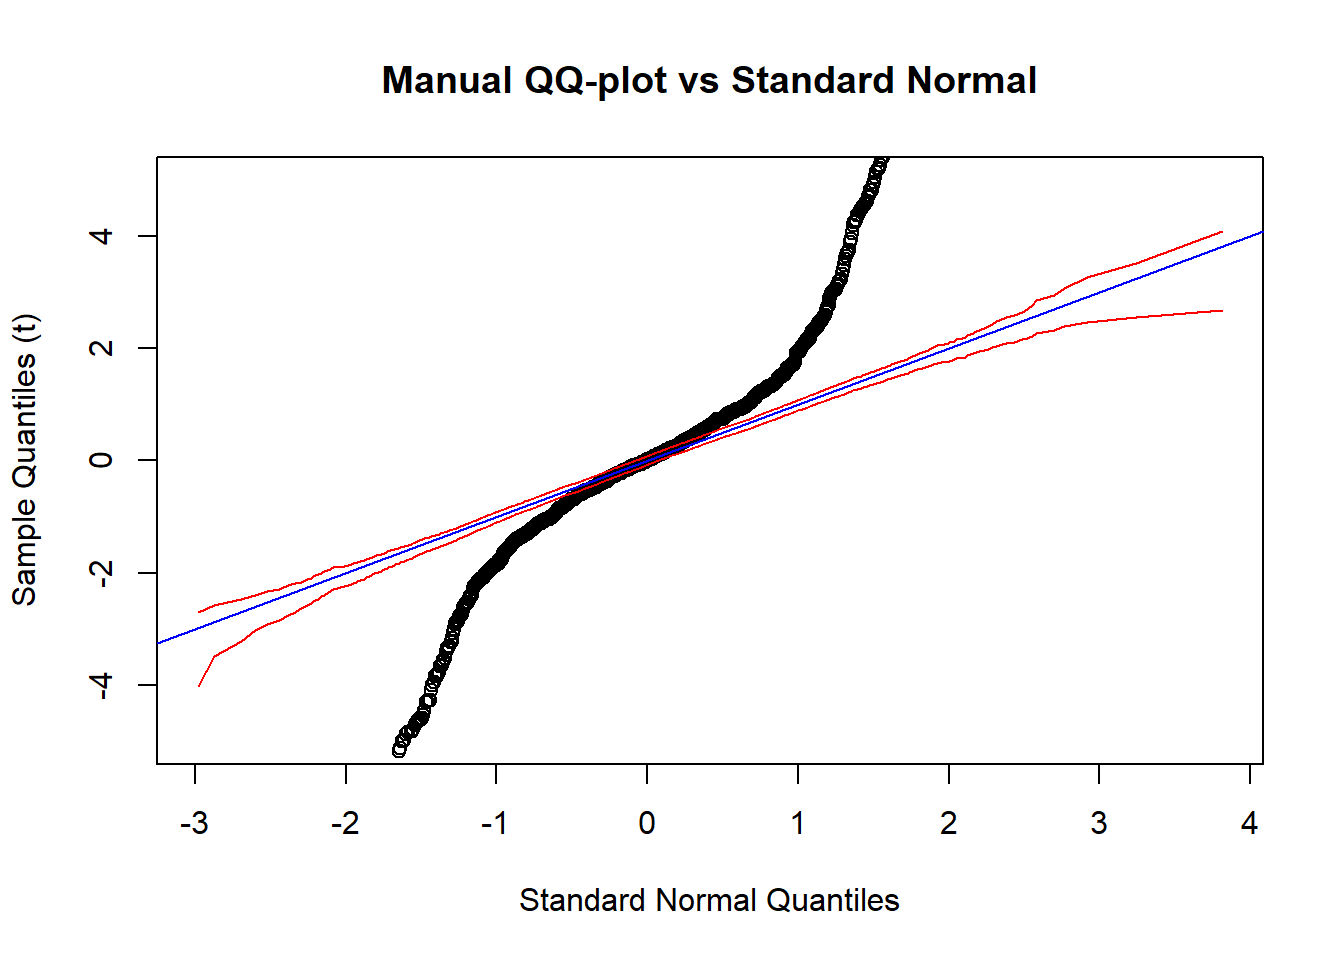
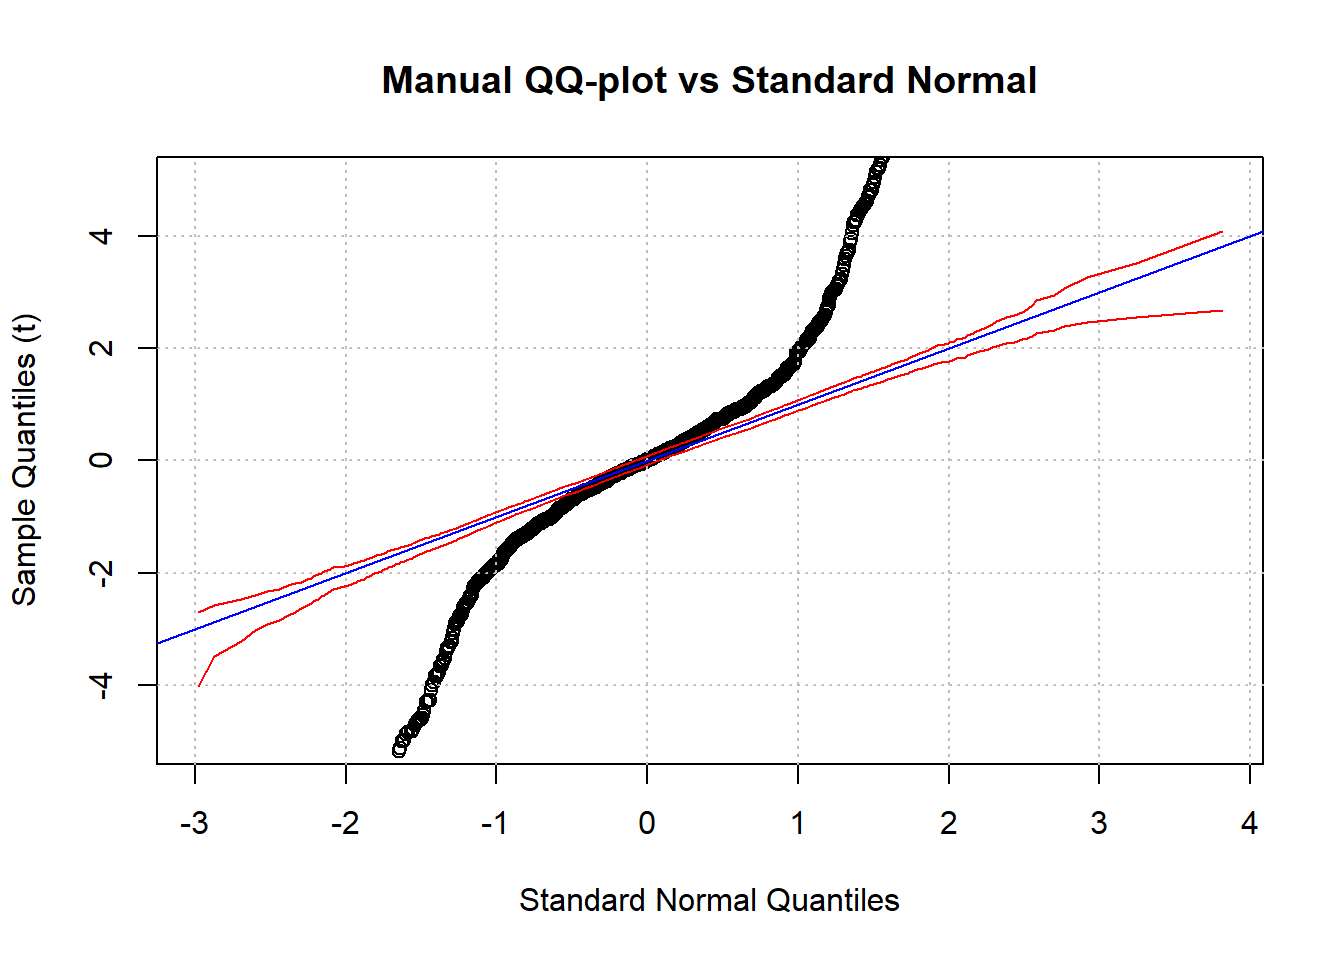
Adjustments to Day3 Prac Q5
Added correct verification plot and ammended plot appearence

diff --git a/_book/day_3_questions.html b/_book/day_3_questions.html
@@ -296,11 +296,12 @@ pre > code.sourceCode > span > a:first-child::before { text-decoration: underlin
 <span id="cb3-54"><a href="#cb3-54" aria-hidden="true" tabindex="-1"></a>     <span class="at">main =</span> <span class="st">"Manual QQ-plot vs Standard Normal"</span>,</span>
 <span id="cb3-55"><a href="#cb3-55" aria-hidden="true" tabindex="-1"></a>     <span class="at">type =</span> <span class="st">"p"</span>,</span>
 <span id="cb3-56"><a href="#cb3-56" aria-hidden="true" tabindex="-1"></a>     <span class="at">col =</span> <span class="st">"black"</span>,</span>
-<span id="cb3-57"><a href="#cb3-57" aria-hidden="true" tabindex="-1"></a>     <span class="at">ylim =</span> <span class="fu">c</span>(<span class="sc">-</span><span class="dv">5</span>,<span class="dv">5</span>)                              <span class="co"># adjusting y axis limits to match presentation of qqPlot</span></span>
-<span id="cb3-58"><a href="#cb3-58" aria-hidden="true" tabindex="-1"></a>)</span>
-<span id="cb3-59"><a href="#cb3-59" aria-hidden="true" tabindex="-1"></a><span class="fu">lines</span>(expected_q, lower, <span class="at">col =</span> <span class="st">"red"</span>, <span class="at">lty =</span> <span class="dv">1</span>)   <span class="co"># lower bound (2.5th quantile)</span></span>
-<span id="cb3-60"><a href="#cb3-60" aria-hidden="true" tabindex="-1"></a><span class="fu">lines</span>(expected_q, upper, <span class="at">col =</span> <span class="st">"red"</span>, <span class="at">lty =</span> <span class="dv">1</span>)   <span class="co"># upper bound (97.5th quantile)</span></span>
-<span id="cb3-61"><a href="#cb3-61" aria-hidden="true" tabindex="-1"></a><span class="fu">abline</span>(<span class="dv">0</span>, <span class="dv">1</span>, <span class="at">col =</span> <span class="st">"blue"</span>, <span class="at">lwd =</span> <span class="dv">1</span>)  <span class="co"># 45 degr</span></span></code><button title="Copy to Clipboard" class="code-copy-button"><i class="bi"></i></button></pre></div>
+<span id="cb3-57"><a href="#cb3-57" aria-hidden="true" tabindex="-1"></a>     <span class="at">ylim =</span> <span class="fu">c</span>(<span class="sc">-</span><span class="dv">5</span>,<span class="dv">5</span>)             <span class="co"># adjusting y axis limits to match presentation of qqPlot</span></span>
+<span id="cb3-58"><a href="#cb3-58" aria-hidden="true" tabindex="-1"></a>     )</span>
+<span id="cb3-59"><a href="#cb3-59" aria-hidden="true" tabindex="-1"></a><span class="fu">grid</span>(<span class="at">col =</span> <span class="st">"grey"</span>)</span>
+<span id="cb3-60"><a href="#cb3-60" aria-hidden="true" tabindex="-1"></a><span class="fu">lines</span>(expected_q, lower, <span class="at">col =</span> <span class="st">"red"</span>, <span class="at">lty =</span> <span class="dv">1</span>)   <span class="co"># lower bound (2.5th quantile)</span></span>
+<span id="cb3-61"><a href="#cb3-61" aria-hidden="true" tabindex="-1"></a><span class="fu">lines</span>(expected_q, upper, <span class="at">col =</span> <span class="st">"red"</span>, <span class="at">lty =</span> <span class="dv">1</span>)   <span class="co"># upper bound (97.5th quantile)</span></span>
+<span id="cb3-62"><a href="#cb3-62" aria-hidden="true" tabindex="-1"></a><span class="fu">abline</span>(<span class="dv">0</span>, <span class="dv">1</span>, <span class="at">col =</span> <span class="st">"blue"</span>, <span class="at">lwd =</span> <span class="dv">1</span>)  <span class="co"># 45 degree line</span></span></code><button title="Copy to Clipboard" class="code-copy-button"><i class="bi"></i></button></pre></div>
 <div class="cell-output-display">
 <div>
 <figure class="figure">
@@ -309,7 +310,13 @@ pre > code.sourceCode > span > a:first-child::before { text-decoration: underlin
 </div>
 </div>
 <div class="sourceCode cell-code" id="cb4"><pre class="sourceCode r code-with-copy"><code class="sourceCode r"><span id="cb4-1"><a href="#cb4-1" aria-hidden="true" tabindex="-1"></a><span class="co"># QQ-plot against standard normal for verification</span></span>
-<span id="cb4-2"><a href="#cb4-2" aria-hidden="true" tabindex="-1"></a><span class="fu">qqPlot</span>(t_sorted, <span class="at">envelope =</span> <span class="fl">0.95</span>, <span class="at">ylim =</span> <span class="fu">c</span>(<span class="sc">-</span><span class="dv">5</span>, <span class="dv">5</span>))</span></code><button title="Copy to Clipboard" class="code-copy-button"><i class="bi"></i></button></pre></div>
+<span id="cb4-2"><a href="#cb4-2" aria-hidden="true" tabindex="-1"></a><span class="fu">qqPlot</span>(t_sorted,</span>
+<span id="cb4-3"><a href="#cb4-3" aria-hidden="true" tabindex="-1"></a>       <span class="at">envelope =</span> <span class="fl">0.95</span>,</span>
+<span id="cb4-4"><a href="#cb4-4" aria-hidden="true" tabindex="-1"></a>       <span class="at">ylim =</span> <span class="fu">c</span>(<span class="sc">-</span><span class="dv">5</span>, <span class="dv">5</span>),</span>
+<span id="cb4-5"><a href="#cb4-5" aria-hidden="true" tabindex="-1"></a>       <span class="at">main =</span> <span class="st">"QQ-plot using R function"</span>,</span>
+<span id="cb4-6"><a href="#cb4-6" aria-hidden="true" tabindex="-1"></a>       <span class="at">xlab =</span> <span class="st">"Standard Normal Quantiles"</span>,</span>
+<span id="cb4-7"><a href="#cb4-7" aria-hidden="true" tabindex="-1"></a>       <span class="at">ylab =</span> <span class="st">"Sample Quantiles(t)"</span></span>
+<span id="cb4-8"><a href="#cb4-8" aria-hidden="true" tabindex="-1"></a>       )</span></code><button title="Copy to Clipboard" class="code-copy-button"><i class="bi"></i></button></pre></div>
 <div class="cell-output-display">
 <div>
 <figure class="figure">
